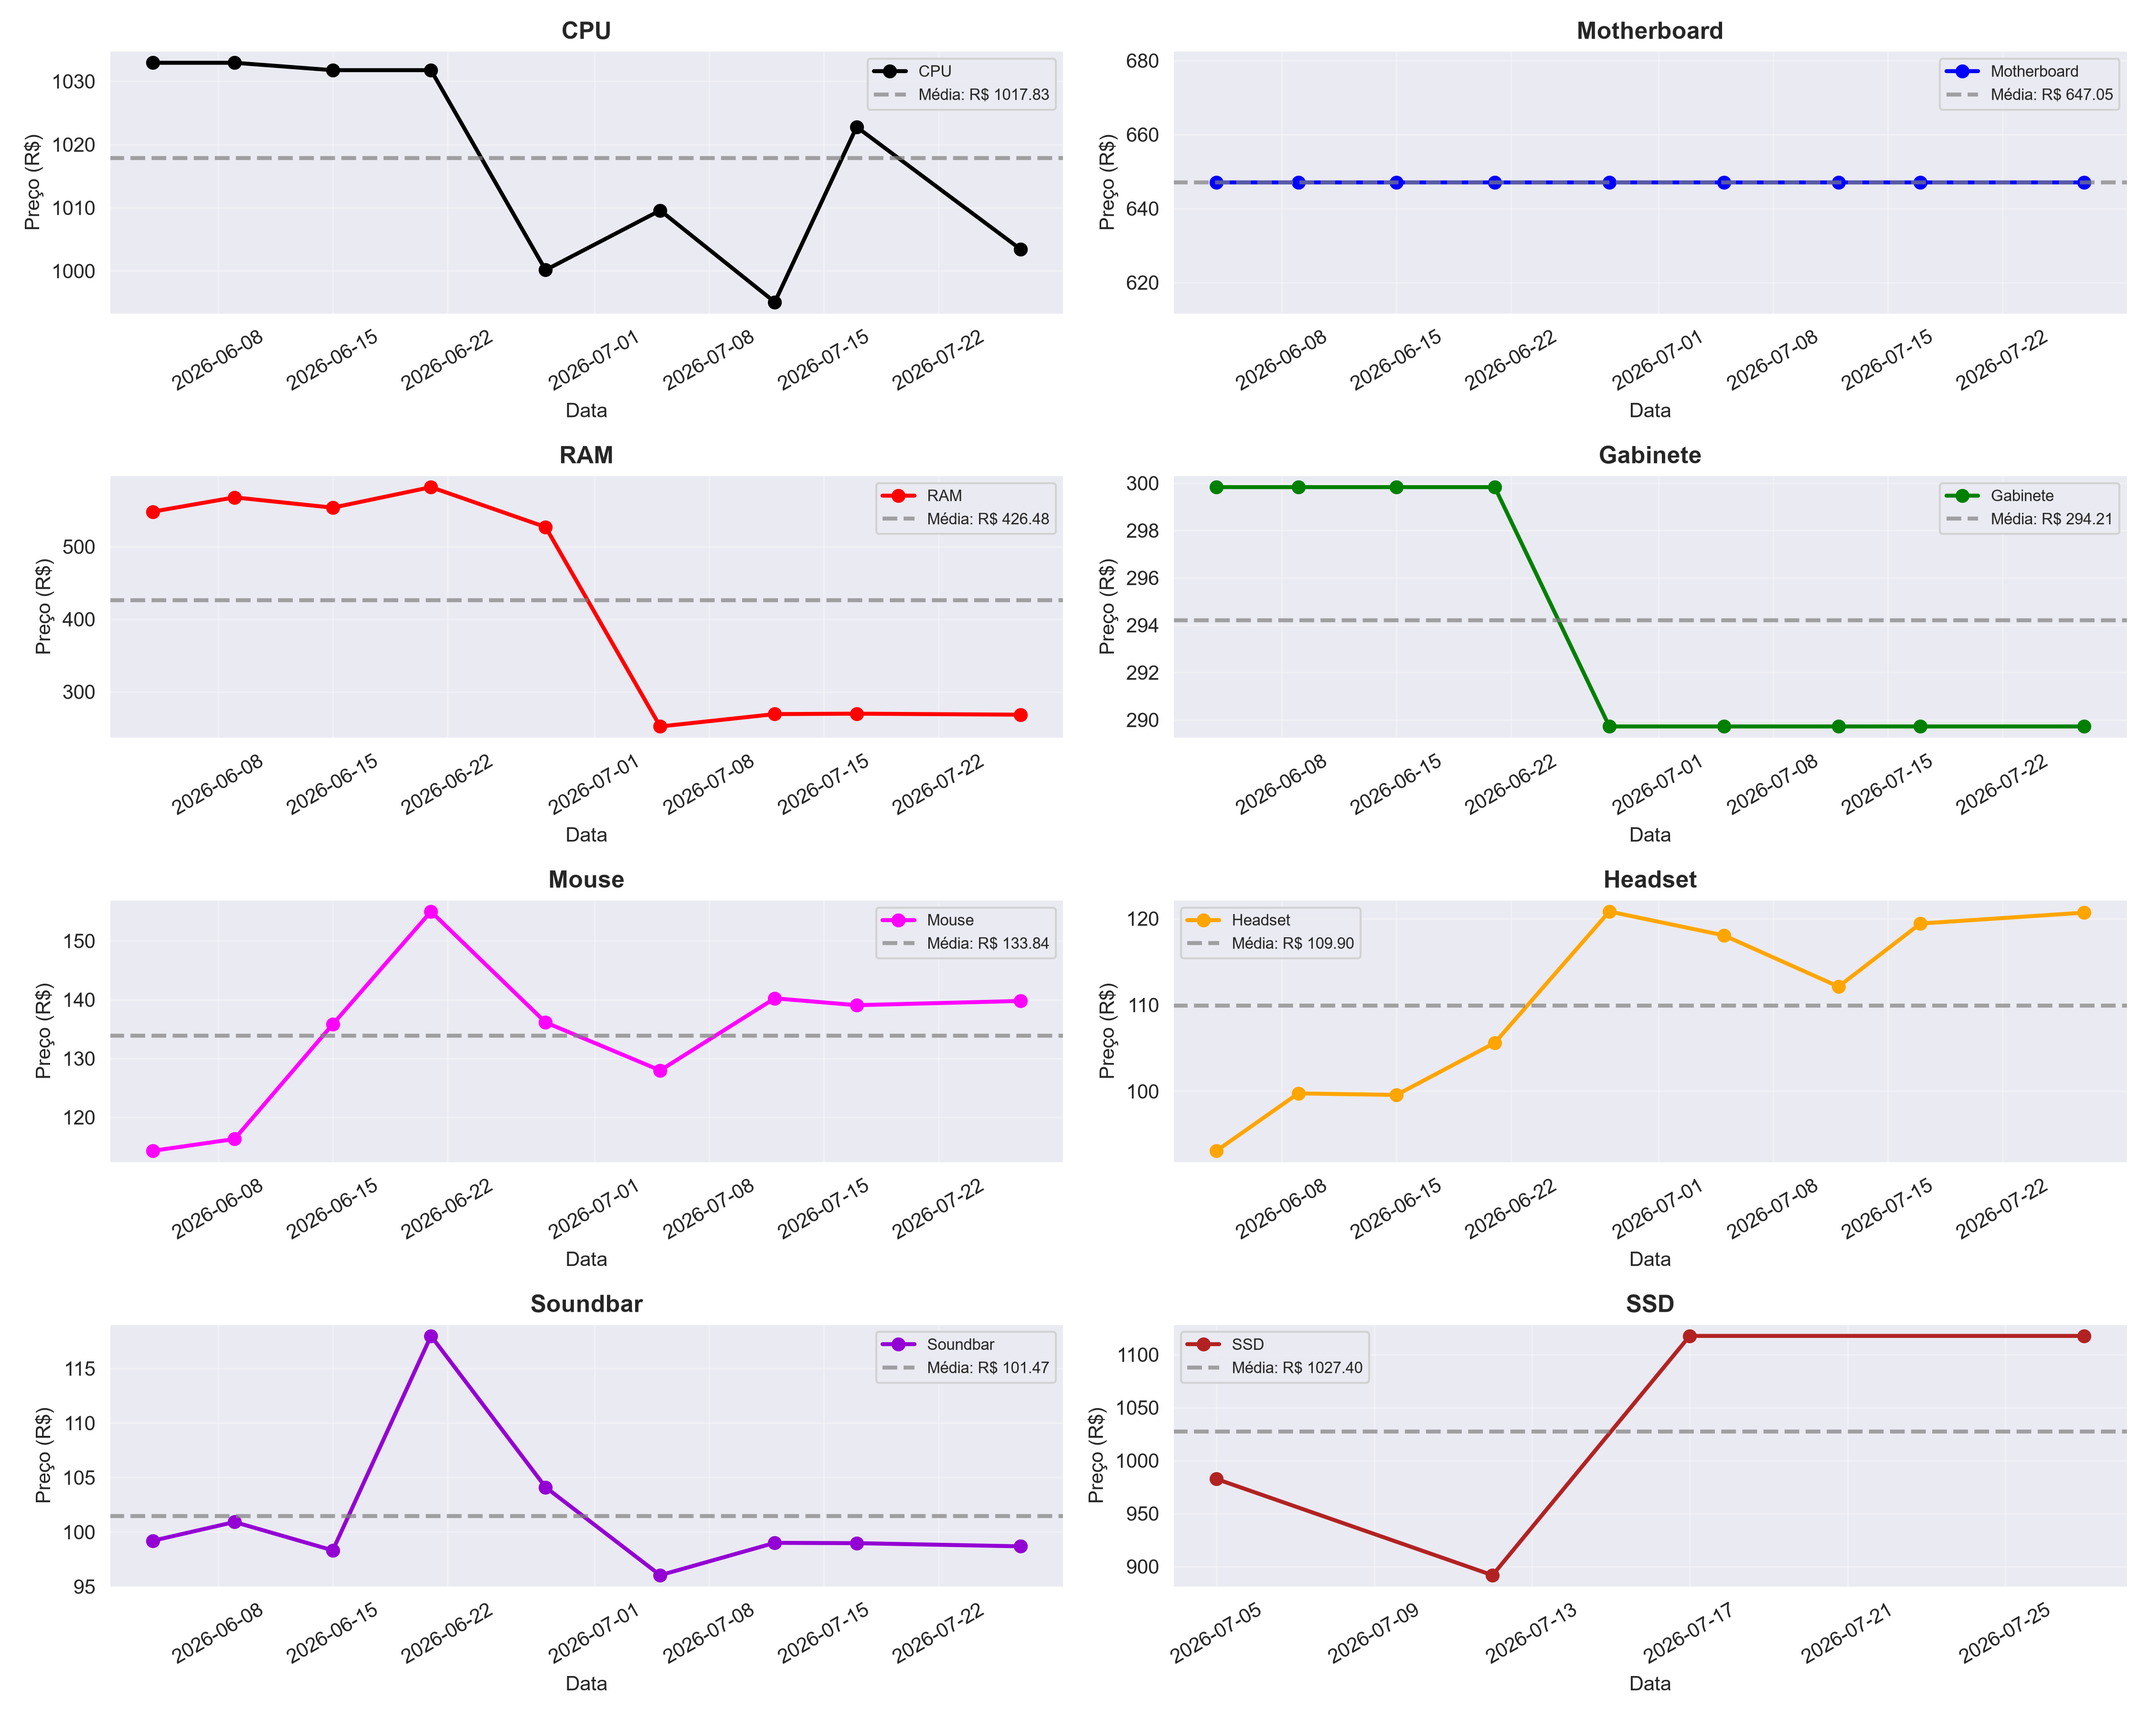
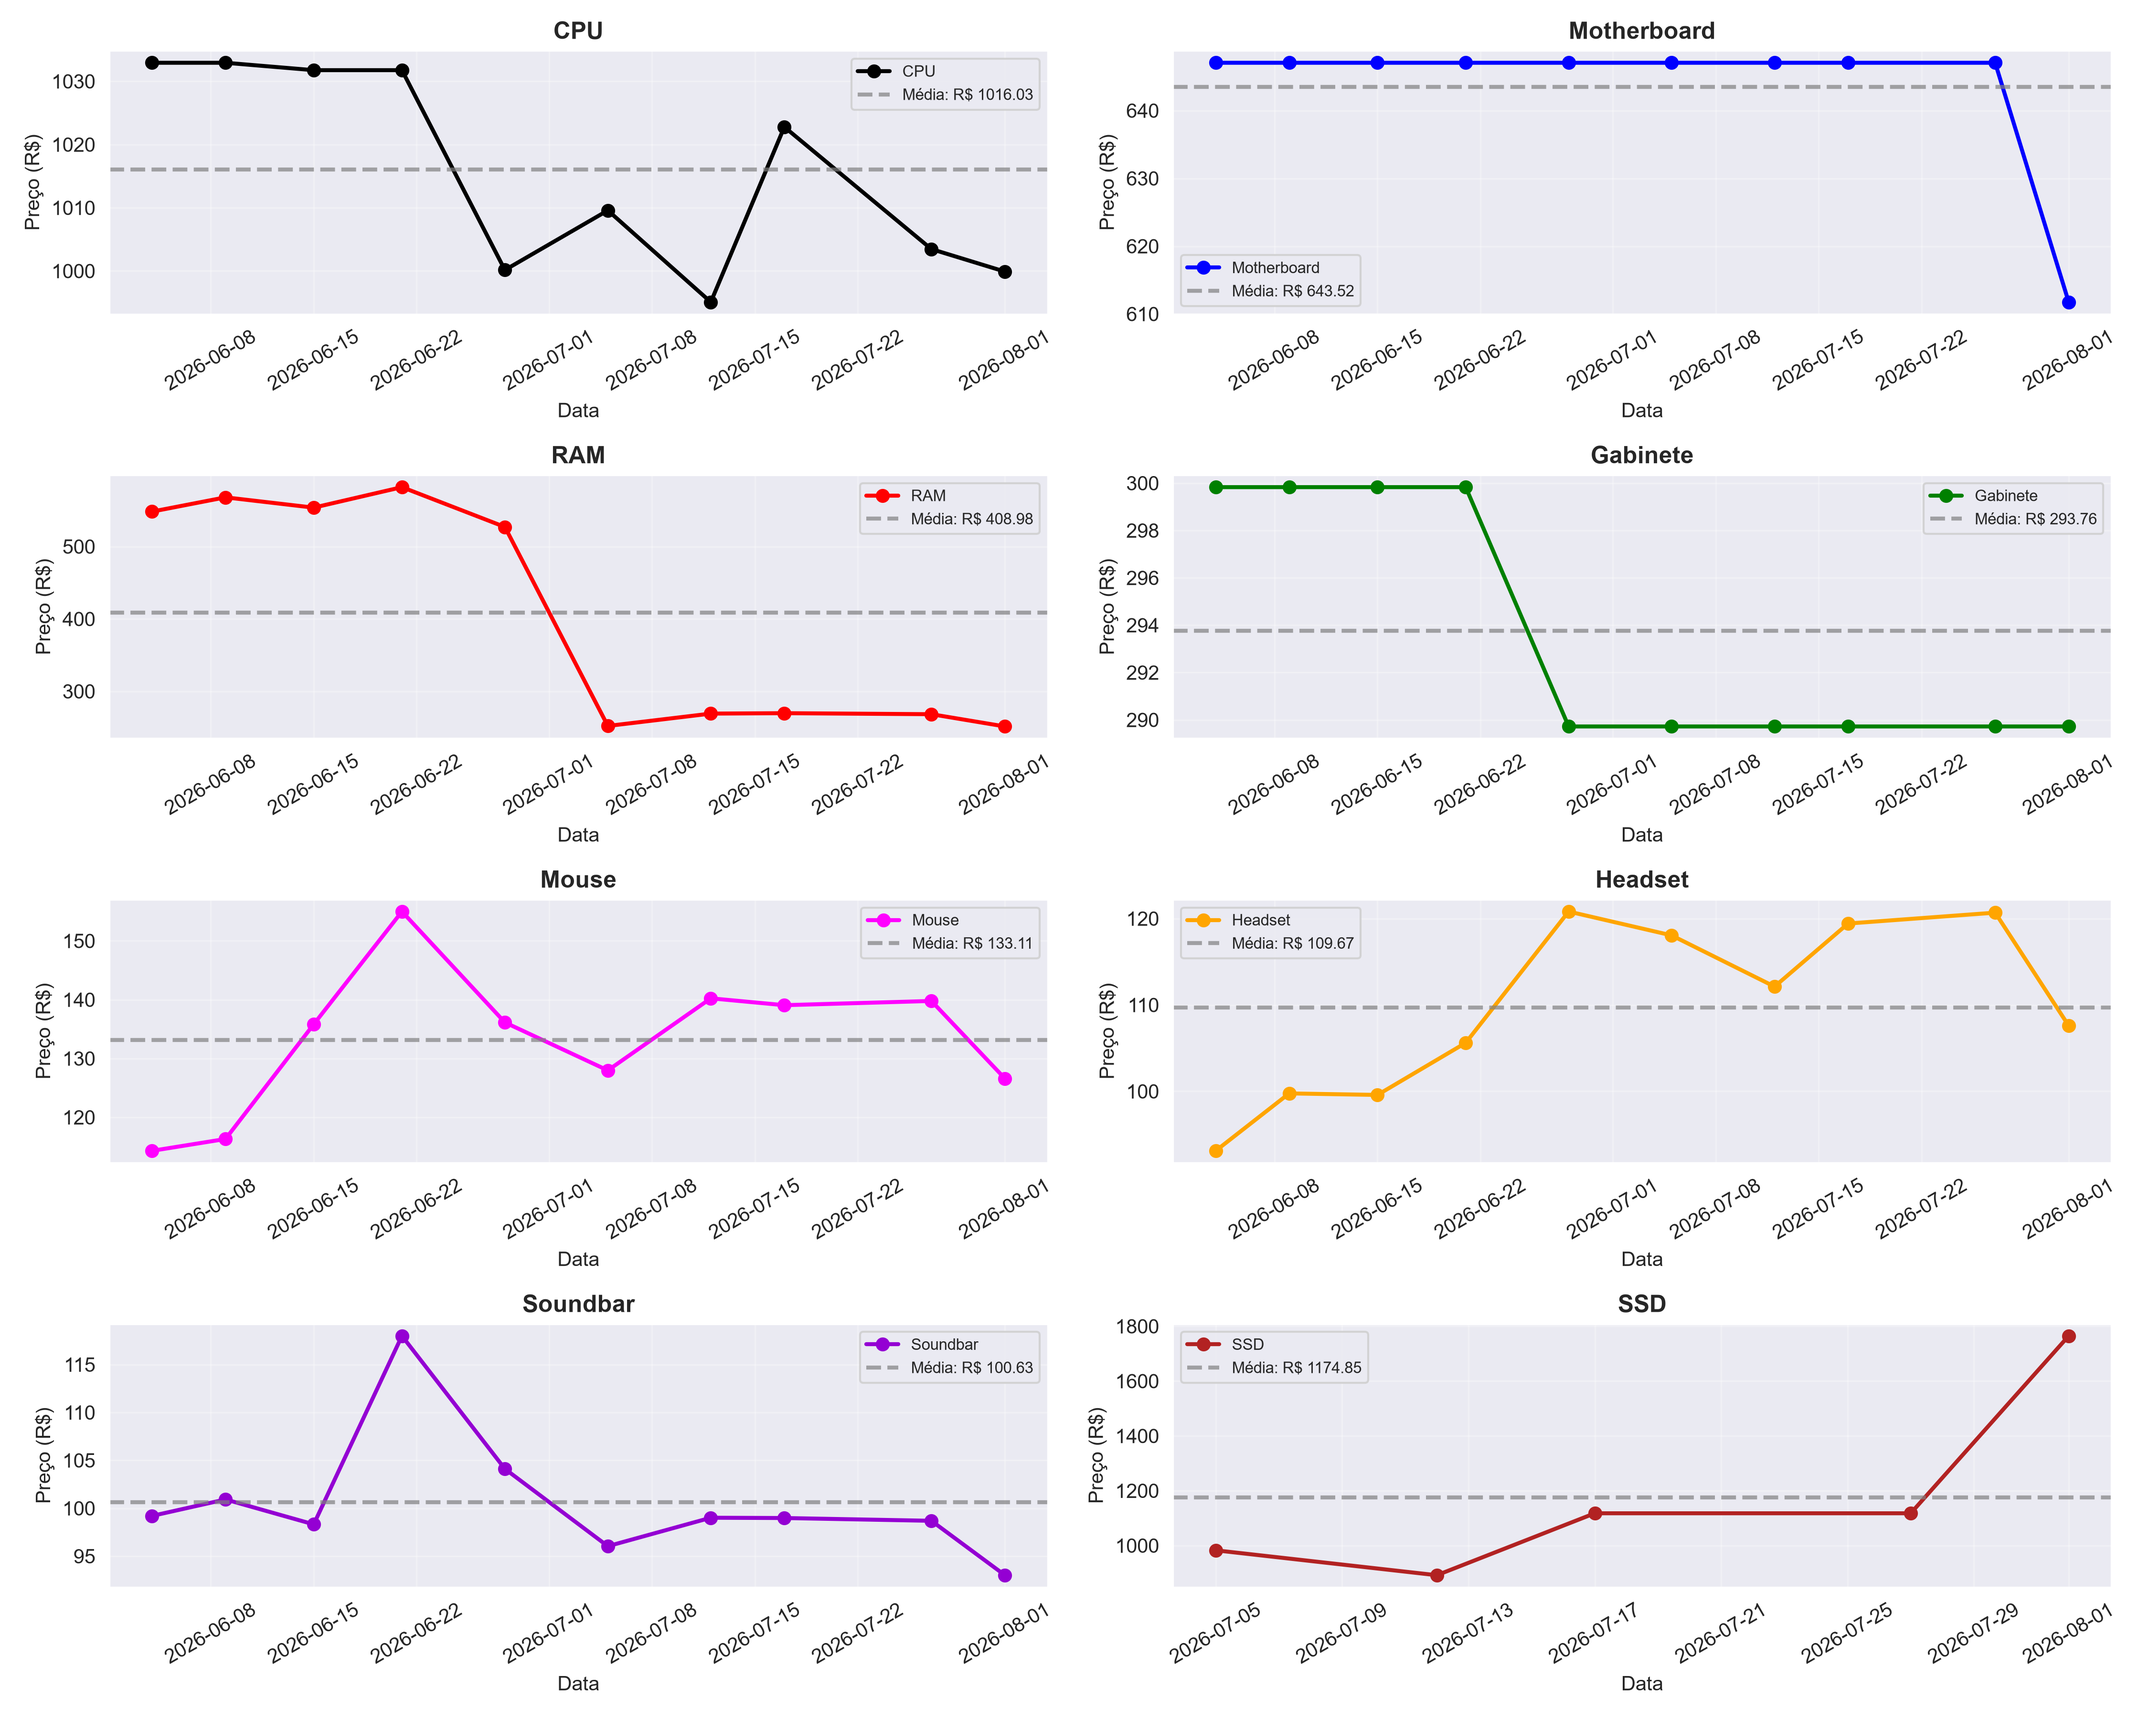
Atualizado link de CPU e atualização de preços 01/08/2026.

diff --git a/main_file.py b/main_file.py
@@ -15,7 +15,7 @@ df = pd.read_csv('PC_Gamer.csv', sep=';')
 #### LINKS ####
 ###############
 
-cpu_link = 'https://www.amazon.com.br/Processador-AMD-Ryzen-5600GT-Threads/dp/B0CQ4DTJYX/ref=asc_df_B0CQ4DTJYX?mcid=ee61770518f834679b2c75152745b69b&tag=googleshopp00-20&linkCode=df0&hvadid=709884378235&hvpos=&hvnetw=g&hvrand=14881669649454203673&hvpone=&hvptwo=&hvqmt=&hvdev=c&hvdvcmdl=&hvlocint=&hvlocphy=9101448&hvtargid=pla-2280624564623&psc=1&language=pt_BR&gad_source=1'
+cpu_link = 'https://www.amazon.com.br/gp/aw/d/B0CQ4DTJYX?openid.assoc_handle=bramazon&openid.claimed_id=https%3A%2F%2Fwww.amazon.com.br%2Fap%2Fid%2Famzn1.account.AFSLCZAT6KPJPJL2MNOJJLJ4UUPA&openid.identity=https%3A%2F%2Fwww.amazon.com.br%2Fap%2Fid%2Famzn1.account.AFSLCZAT6KPJPJL2MNOJJLJ4UUPA&openid.mode=id_res&openid.ns=http%3A%2F%2Fspecs.openid.net%2Fauth%2F2.0&openid.op_endpoint=https%3A%2F%2Fwww.amazon.com.br%2Fap%2Fsignin&openid.response_nonce=2026-08-01T19%3A18%3A36Z-7015999307553914865&openid.return_to=https%3A%2F%2Fwww.amazon.com.br%2Fgp%2Faw%2Fd%2FB0CQ4DTJYX&openid.signed=assoc_handle%2Cclaimed_id%2Cidentity%2Cmode%2Cns%2Cop_endpoint%2Cresponse_nonce%2Creturn_to%2Cns.pape%2Cpape.auth_policies%2Cpape.auth_time%2Csigned&openid.ns.pape=http%3A%2F%2Fspecs.openid.net%2Fextensions%2Fpape%2F1.0&openid.pape.auth_policies=http%3A%2F%2Fschemas.openid.net%2Fpape%2Fpolicies%2F2007%2F06%2Fnone&openid.pape.auth_time=2026-08-01T19%3A18%3A36Z&openid.sig=vZYwcxsW9yDyHL7oq%2FVX8u6giWcqbwWnMK7BYFzHluM%3D&serial='
 motherboard_link = 'https://www.terabyteshop.com.br/produto/18646/placa-mae-msi-b550m-a-pro-chipset-b550-amd-am4-matx-ddr4?gad_source=1&gad_campaignid=16136003025&gclid=CjwKCAjw-dfOBhAjEiwAq0RwIz8B9H8t5nWpALxwlzeNSRzDe_0N0SyEK5sfVcw5-6LGCgzhKTTASBoCiYIQAvD_BwE'
 ssd_link = 'https://www.kabum.com.br/produto/536953/ssd-sandisk-sn350-1tb-m-2-2280-pcie-nvme-leitura-2400mb-s-e-gravacao-1850mb-s-verde-wds100t2g0c'
 ram_link = 'https://pt.aliexpress.com/item/1005012323512000.html?pdp_ext_f=%7B"sku_id"%3A"12000058084377368"%7D&sourceType=1&spm=a2g0o.wish-manage-home.0.0&gatewayAdapt=glo2bra'
